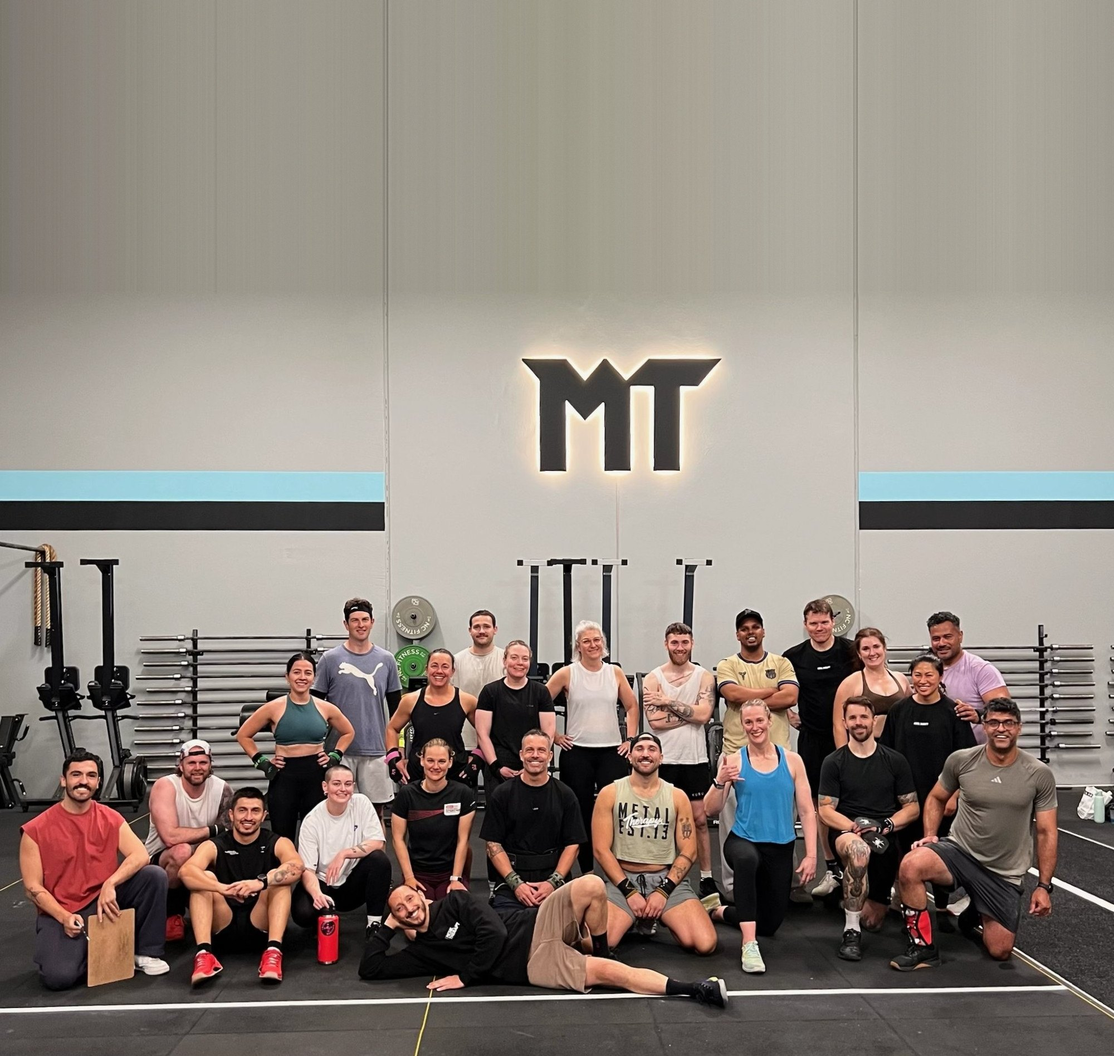
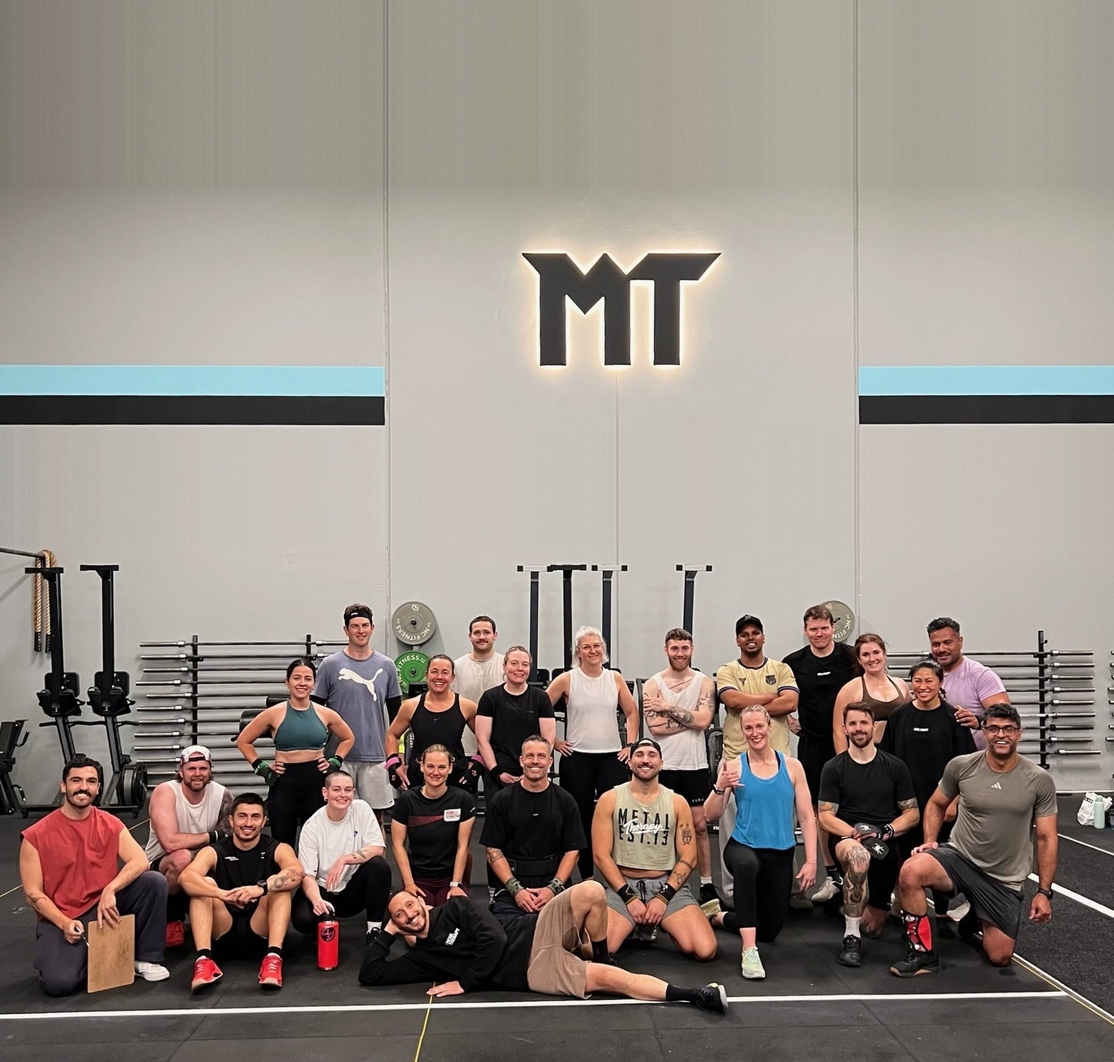
Mobile hero: two-line headline, intro text + CTA together on wall above heads

diff --git a/index.html b/index.html
@@ -185,6 +185,7 @@
   .hero h1 em{font-style:normal;color:var(--accent);text-shadow:0 2px 22px rgba(0,0,0,.6);}
   .hero-sub{font-size:19px;line-height:1.65;color:var(--off-white);max-width:560px;margin:26px 0 34px;text-shadow:0 1px 14px rgba(0,0,0,.7);}
   .hero-ctas{display:flex;flex-direction:column;align-items:flex-start;gap:16px;}
+  .hero-mid{display:contents;}
 
   /* ---------------- SECTION SHELL ---------------- */
   section{position:relative;padding:80px 0;}
@@ -378,9 +379,9 @@
     .photo-tile{aspect-ratio:4/3;}
     .contact .wrap{grid-template-columns:1fr;}
   }
-  /* Phones: full-screen photo. Headline sits on the wall above the MT logo, the intro line sits level
-     with the wall stripes, and the button is pinned to the bottom of the photo.
-     hero-mobile.jpg is the same photo with extra wall added above it for the headline. */
+  /* Phones: full-screen photo. Headline sits on the wall above the MT logo, the intro line + button sit
+     together on the wall between the logo/stripes and the first row of heads (so nobody is covered).
+     hero-mobile.jpg is the same photo with extra plain wall added above the logo and below the stripes. */
   @media (max-width:700px){
     .hero{aspect-ratio:auto;min-height:100svh;justify-content:flex-start;padding:92px 0 0;}
     .hero::before{
@@ -391,9 +392,17 @@
       background:linear-gradient(180deg, rgba(10,10,10,.55) 0%, rgba(10,10,10,.25) 35%, rgba(10,10,10,.3) 70%, rgba(10,10,10,.85) 100%);
     }
     .hero-inner{display:contents;}
-    .hero h1{position:relative;z-index:2;padding:0 24px;font-size:min(15vw,64px);}
-    .hero-sub{position:absolute;z-index:2;left:24px;right:24px;top:46%;margin:0;max-width:none;font-size:16px;line-height:1.5;}
-    .hero-ctas{position:absolute;z-index:2;left:24px;bottom:44px;margin:0;}
+    .hero h1{position:relative;z-index:2;padding:0 24px;font-size:min(11.6vw,56px);}
+    .hero h1 .b1{display:none;}
+    .hero-mid{display:block;position:absolute;z-index:2;left:24px;right:24px;top:36%;}
+    .hero-sub{margin:0 0 14px;max-width:none;font-size:16px;line-height:1.5;}
+    .hero-ctas{margin:0;}
+  }
+  @media (max-width:700px) and (max-height:720px){
+    .hero{padding-top:76px;}
+    .hero h1{font-size:min(10vw,40px);}
+    .hero-sub{font-size:14px;margin-bottom:10px;}
+    .hero-ctas .btn{padding:11px 22px;font-size:12px;}
   }
   @media (max-width:560px){
     .wrap{padding:0 20px;}
@@ -423,10 +432,12 @@
 
 <header class="hero" id="hero">
   <div class="wrap hero-inner">
-    <h1>FORGING<br><em>STRONGER</em><br>HUMANS.</h1>
-    <p class="hero-sub">A community-driven CrossFit gym in Brooklyn dedicated to your physical and mental evolution.</p>
-    <div class="hero-ctas">
-      <a href="#trial" class="btn primary">Start your 7 day free trial</a>
+    <h1>FORGING<br class="b1"> <em>STRONGER</em><br> HUMANS.</h1>
+    <div class="hero-mid">
+      <p class="hero-sub">A community-driven CrossFit gym in Brooklyn dedicated to your physical and mental evolution.</p>
+      <div class="hero-ctas">
+        <a href="#trial" class="btn primary">Start your 7 day free trial</a>
+      </div>
     </div>
   </div>
 </header>
